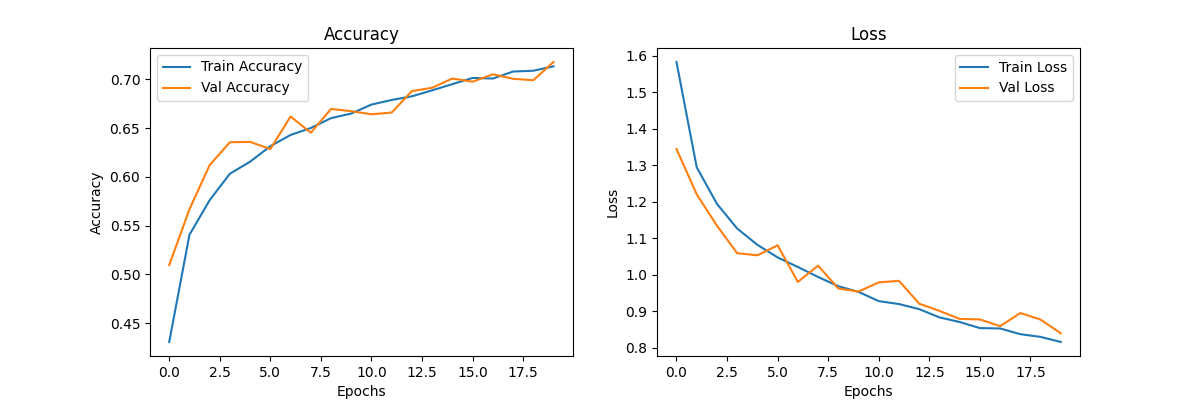
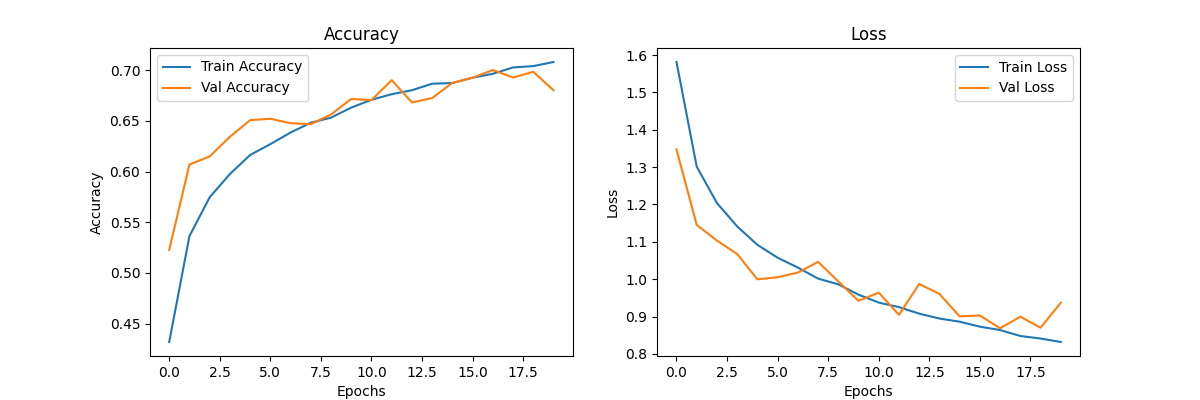
added SGD and RMSprop optimiser results

diff --git a/main.py b/main.py
@@ -30,6 +30,47 @@ def train_model_batch_normalised(model_handler: TensorModel, visualiser: Visuali
     visualiser.plot_training_history(history, model_name)
     return (model, model_name), (test_acc)
 
+def train_model_batch_normalised_sgd(model_handler: TensorModel, visualiser: Visualiser, logger: Logger, x_train, y_train, x_test, y_test) -> tuple:
+    model_name = "batch_norm_model_sgd"
+    model = model_handler.create_cnn(optimiser="sgd", batch_normalisation=True)
+    history = model.fit(x_train, y_train, epochs=NUM_EPOCHS, batch_size=64, validation_data=(x_test, y_test))
+    test_loss, test_acc = model.evaluate(x_test, y_test)
+    logger.info(f"Model accuracy: {test_acc * 100:.2f}%")
+    visualiser.plot_training_history(history, model_name)
+    return (model, model_name), (test_acc)
+
+def train_model_batch_normalised_rmsprop(model_handler: TensorModel, visualiser: Visualiser, logger: Logger, x_train, y_train, x_test, y_test) -> tuple:
+    model_name = "batch_norm_model_rmsprop"
+    model = model_handler.create_cnn(optimiser="rmsprop", batch_normalisation=True)
+    history = model.fit(x_train, y_train, epochs=NUM_EPOCHS, batch_size=64, validation_data=(x_test, y_test))
+    test_loss, test_acc = model.evaluate(x_test, y_test)
+    logger.info(f"Model accuracy: {test_acc * 100:.2f}%")
+    visualiser.plot_training_history(history, model_name)
+    return (model, model_name), (test_acc)
+
+def train_models(model_handler: TensorModel, visualiser: Visualiser, logger: Logger, x_train, y_train, x_test, y_test, model_acc_results:dict) -> dict:
+    # Create and train the base model
+    (model, model_name), (test_acc) = train_base_model(model_handler, visualiser, logger, x_train, y_train, x_test, y_test)
+    create_predicition_matrix(model_handler, visualiser, model, x_test, y_test, model_name)
+    model_acc_results.update({model_name:test_acc})
+
+    # Create and train the batch normalised model
+    (model, model_name), (test_acc) = train_model_batch_normalised(model_handler, visualiser, logger, x_train, y_train, x_test, y_test)
+    create_predicition_matrix(model_handler, visualiser, model, x_test, y_test, model_name)
+    model_acc_results.update({model_name:test_acc})
+
+    # Create and train the batch normalised model with SGD optimiser
+    (model, model_name), (test_acc) = train_model_batch_normalised_sgd(model_handler, visualiser, logger, x_train, y_train, x_test, y_test)
+    create_predicition_matrix(model_handler, visualiser, model, x_test, y_test, model_name)
+    model_acc_results.update({model_name:test_acc})
+
+    # Create and train the batch normalised model with RMSprop optimiser
+    (model, model_name), (test_acc) = train_model_batch_normalised_rmsprop(model_handler, visualiser, logger, x_train, y_train, x_test, y_test)
+    create_predicition_matrix(model_handler, visualiser, model, x_test, y_test, model_name)
+    model_acc_results.update({model_name:test_acc})
+
+    return model_acc_results
+
 if __name__ == "__main__":
     # Initialise variables
     model_acc_results = {}
@@ -48,15 +89,8 @@ if __name__ == "__main__":
     data_augmentation = model_handler.get_augmentation()
     visualiser.visualise_sample_images(5, x_train, 5, data_augmentation)
 
-    # Create and train the base model
-    (model, model_name), (test_acc) = train_base_model(model_handler, visualiser, logger, x_train, y_train, x_test, y_test)
-    create_predicition_matrix(model_handler, visualiser, model, x_test, y_test, model_name)
-    model_acc_results.update({model_name:test_acc})
-
-    # Create and train the batch normalised model
-    (model, model_name), (test_acc) = train_model_batch_normalised(model_handler, visualiser, logger, x_train, y_train, x_test, y_test)
-    create_predicition_matrix(model_handler, visualiser, model, x_test, y_test, model_name)
-    model_acc_results.update({model_name:test_acc})
+    # Train models
+    model_acc_results = train_models(model_handler, visualiser, logger, x_train, y_train, x_test, y_test, model_acc_results)
 
     # Summarise the accuracy results of the models
     logger.info("Model Accuracy Results:")

diff --git a/include/TensorModel.py b/include/TensorModel.py
@@ -49,7 +49,7 @@ class TensorModel:
 
         return data_augmentation
     
-    def create_cnn(self, batch_normalisation=False, learning_rate=0.001, decay_factor=0.95) -> tf.keras.Model:
+    def create_cnn(self, optimiser="adam", batch_normalisation=False, learning_rate=0.001, decay_factor=0.95) -> tf.keras.Model:
         # Get data augmentation
         data_augmentation = self.get_augmentation()
 
@@ -70,7 +70,7 @@ class TensorModel:
                     .add_batch_norm()
                     .add_dropout(0.5)
                     .add_dense_layer(10, activation="softmax")
-                    .compile_model(learning_rate=learning_rate, decay_factor=decay_factor)
+                    .compile_model(optimiser=optimiser, learning_rate=learning_rate, decay_factor=decay_factor)
                     .build()
                     )
         else:   
@@ -84,7 +84,7 @@ class TensorModel:
                     .add_flaten_layer()
                     .add_dense_layer(128, activation="relu")
                     .add_dense_layer(10, activation="softmax")
-                    .compile_model(learning_rate=learning_rate, decay_factor=decay_factor)
+                    .compile_model(optimiser=optimiser, learning_rate=learning_rate, decay_factor=decay_factor)
                     .build()
                     )
 
